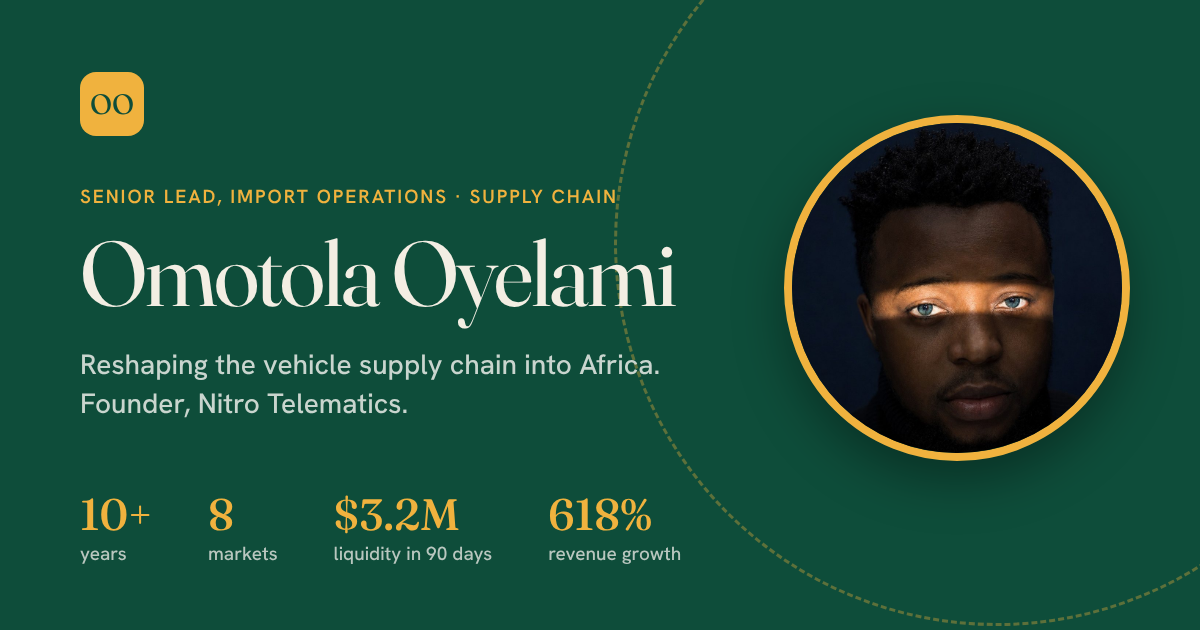
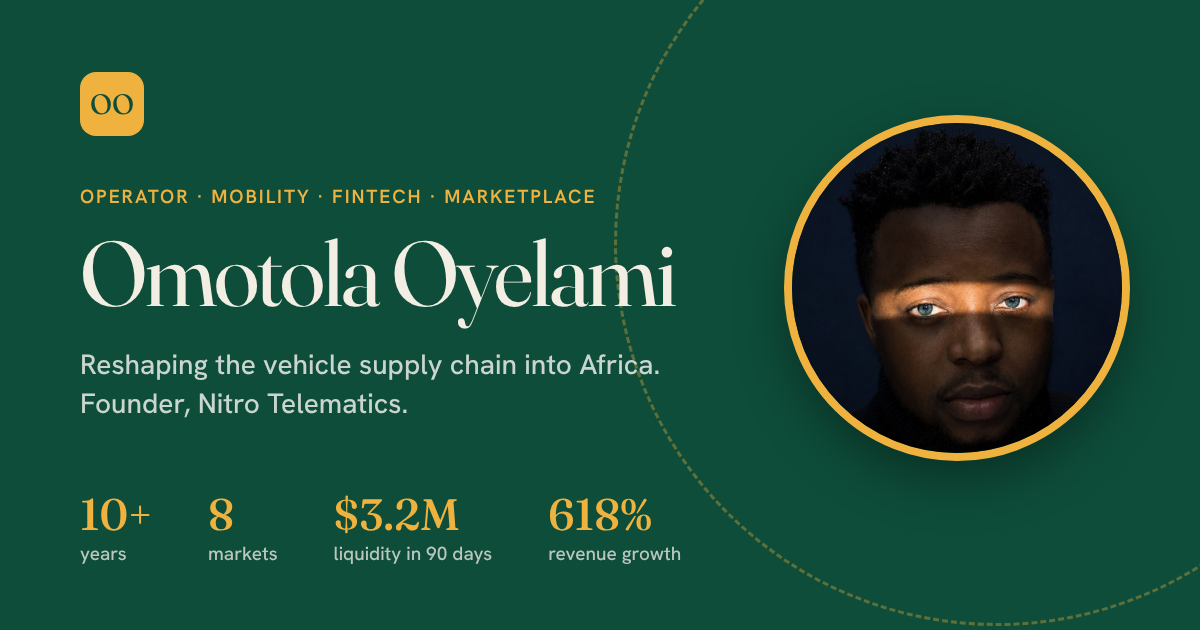
Use LinkedIn headline wording in the header and page title
Claude-Session: https://claude.ai/code/session_01UukwycTummAeTFgrWK6GVa

Changed region(s): [[0.0617, 0.3016, 0.5242, 0.3317]]

diff --git a/index.html b/index.html
@@ -3,7 +3,7 @@
 <head>
   <meta charset="utf-8" />
   <meta name="viewport" content="width=device-width, initial-scale=1" />
-  <title>Omotola (Tola) Oyelami | Operations & Mobility Finance Executive</title>
+  <title>Omotola (Tola) Oyelami | Operator · Mobility · Fintech · Marketplace</title>
   <meta name="description" content="Omotola (Tola) Oyelami is reshaping the vehicle import supply chain across six African markets, and has spent 10+ years building operations, partnerships and mobility financing across eight African markets." />
   <meta name="author" content="Omotola Oyelami" />
   <link rel="canonical" href="https://www.tolaoyelami.org/" />
@@ -11,7 +11,7 @@
 
   <!-- Social preview (LinkedIn, WhatsApp, X). If the site moves to a new address, update og:url and og:image. -->
   <meta property="og:type" content="profile" />
-  <meta property="og:title" content="Omotola (Tola) Oyelami | Operations & Mobility Finance Executive" />
+  <meta property="og:title" content="Omotola (Tola) Oyelami | Operator · Mobility · Fintech · Marketplace" />
   <meta property="og:description" content="Senior Lead, Import Operations, reshaping the vehicle supply chain into Africa. Founder of Nitro Telematics. 10+ years across eight African markets." />
   <meta property="og:url" content="https://www.tolaoyelami.org/" />
   <meta property="og:image" content="https://www.tolaoyelami.org/assets/og-image.png" />
@@ -89,7 +89,7 @@
 
       <div class="wrap hero__grid">
         <div class="hero__copy">
-          <p class="eyebrow reveal"><span class="eyebrow__dot"></span>Senior Lead, Import Operations · Supply Chain</p>
+          <p class="eyebrow reveal"><span class="eyebrow__dot"></span>Operator · Mobility · Fintech · Marketplace</p>
           <h1 class="hero__title reveal">Omotola<br /><span class="hero__title-accent">Oyelami</span></h1>
           <p class="nickname reveal" aria-label="Most people call me Tola">…but most people call me <b>Tola</b> <span class="wave-hand" aria-hidden="true">👋</span></p>
           <p class="hero__lead reveal">
